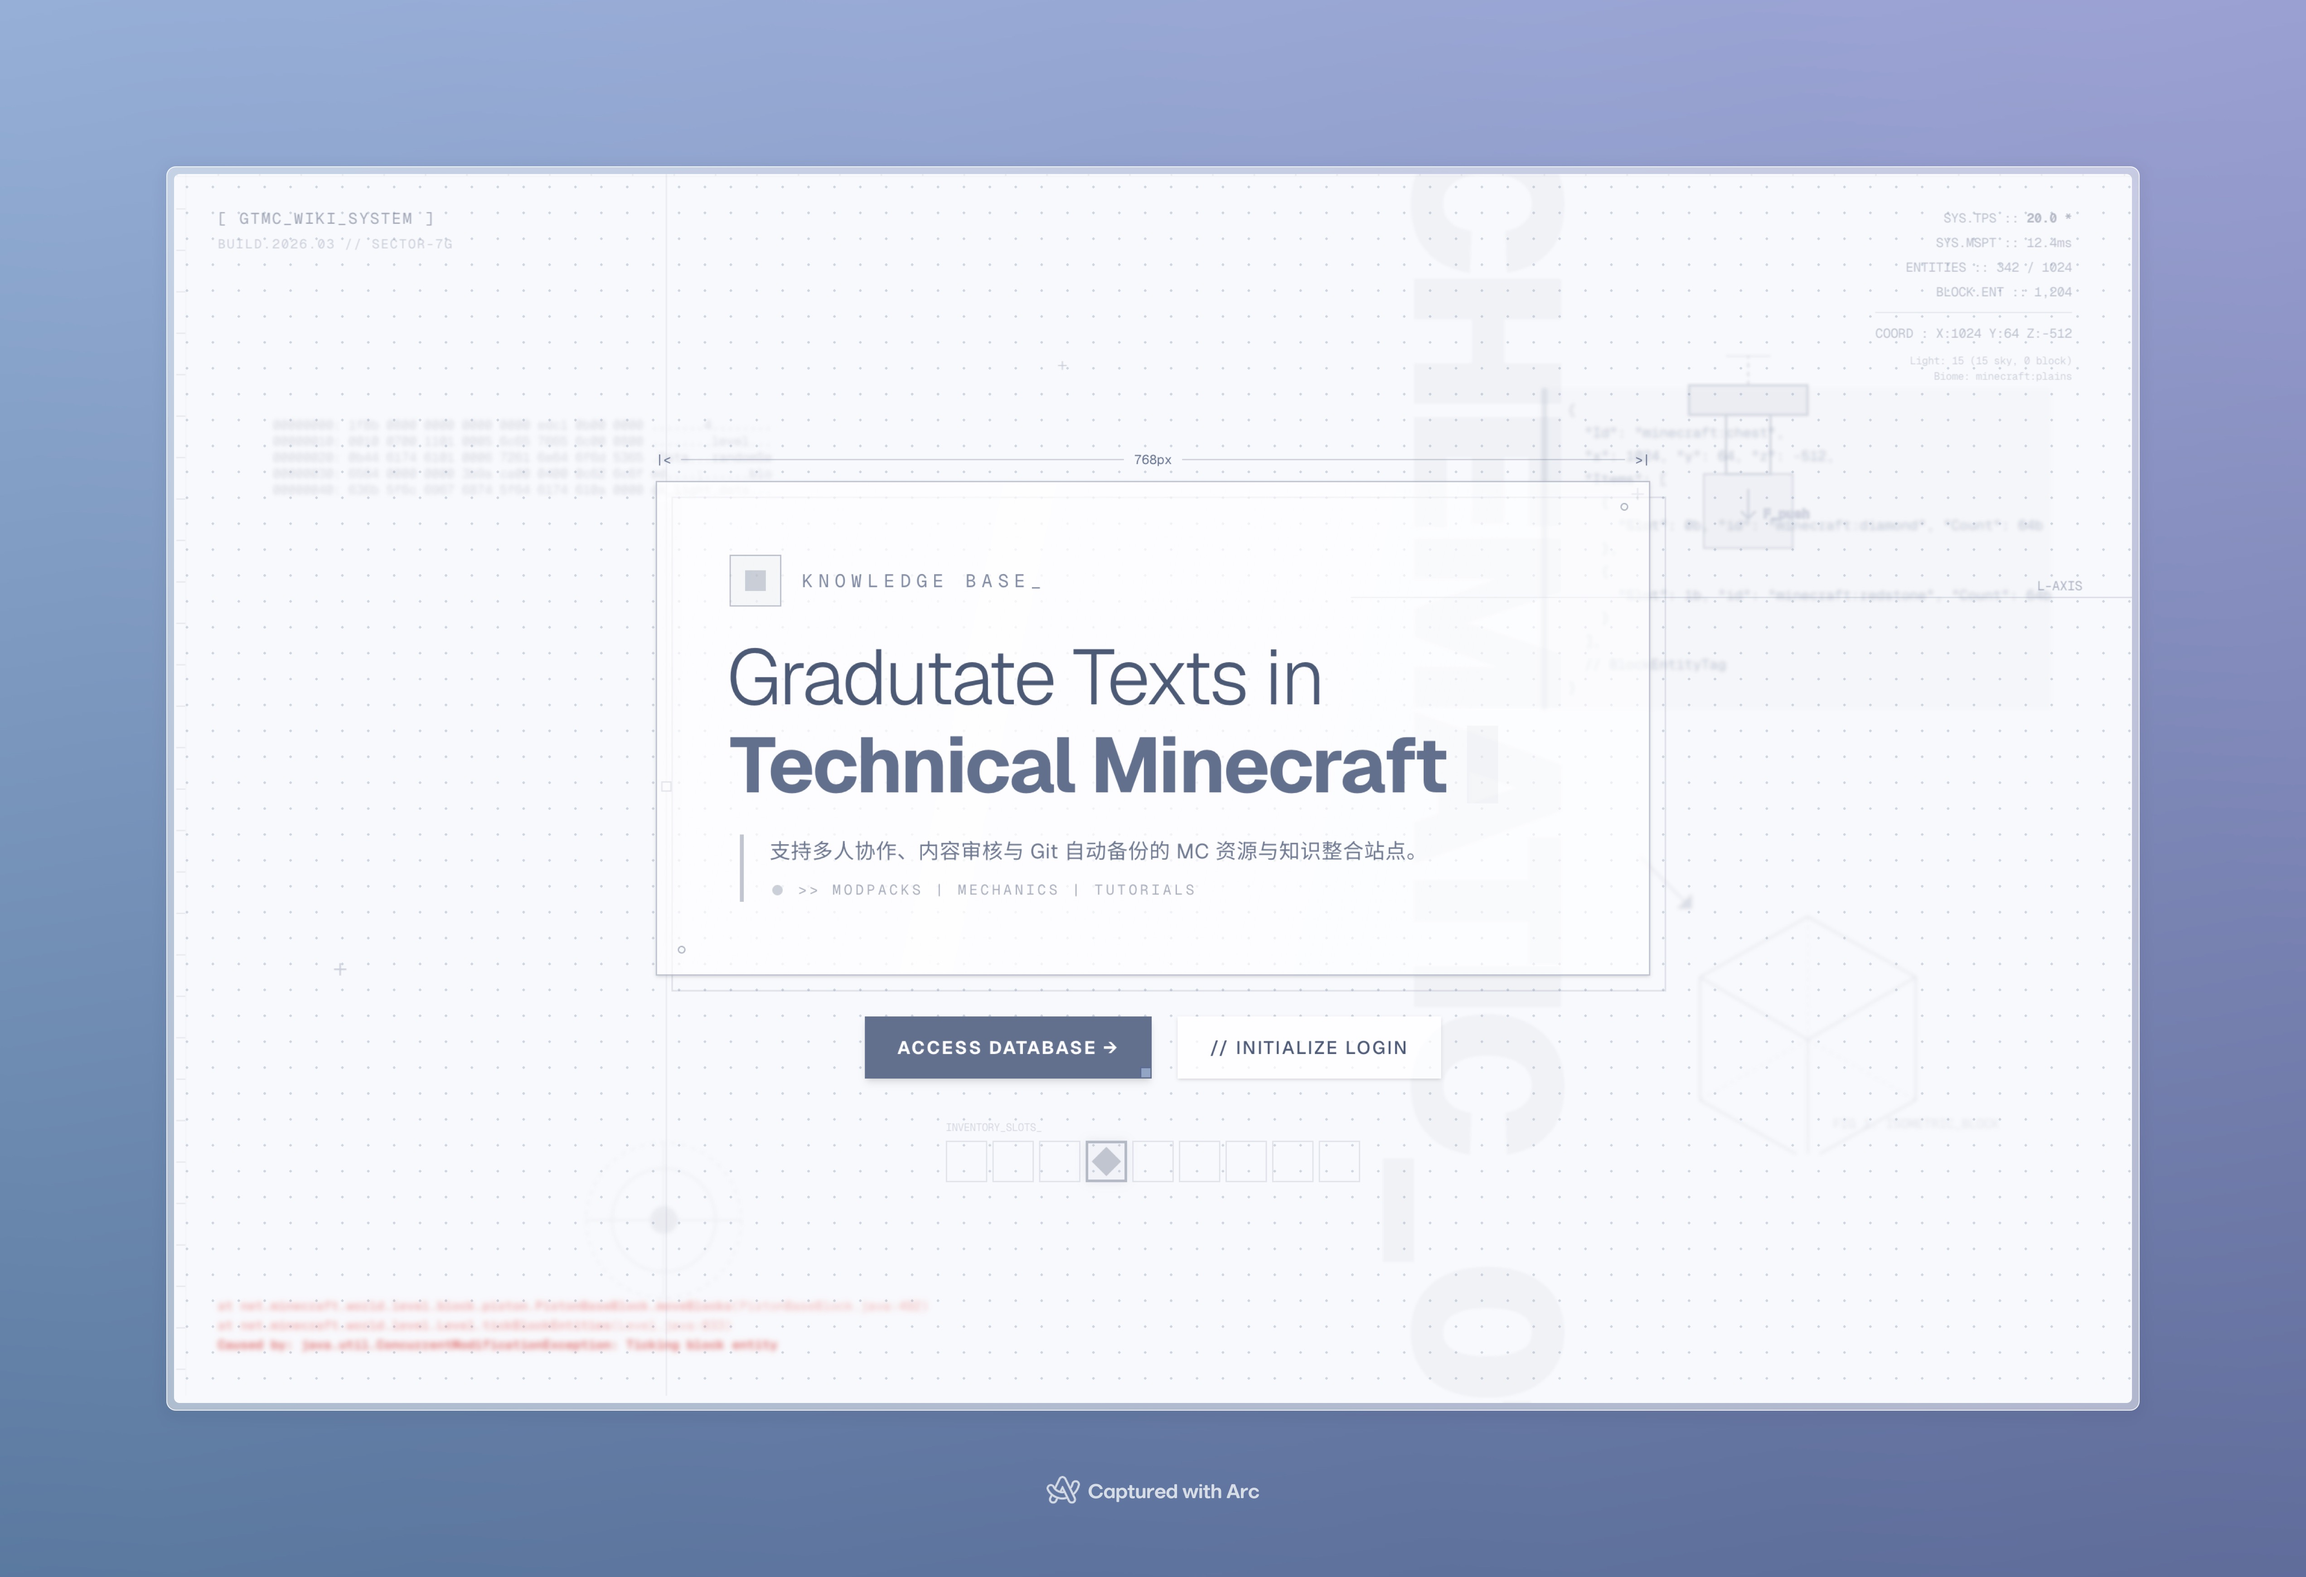
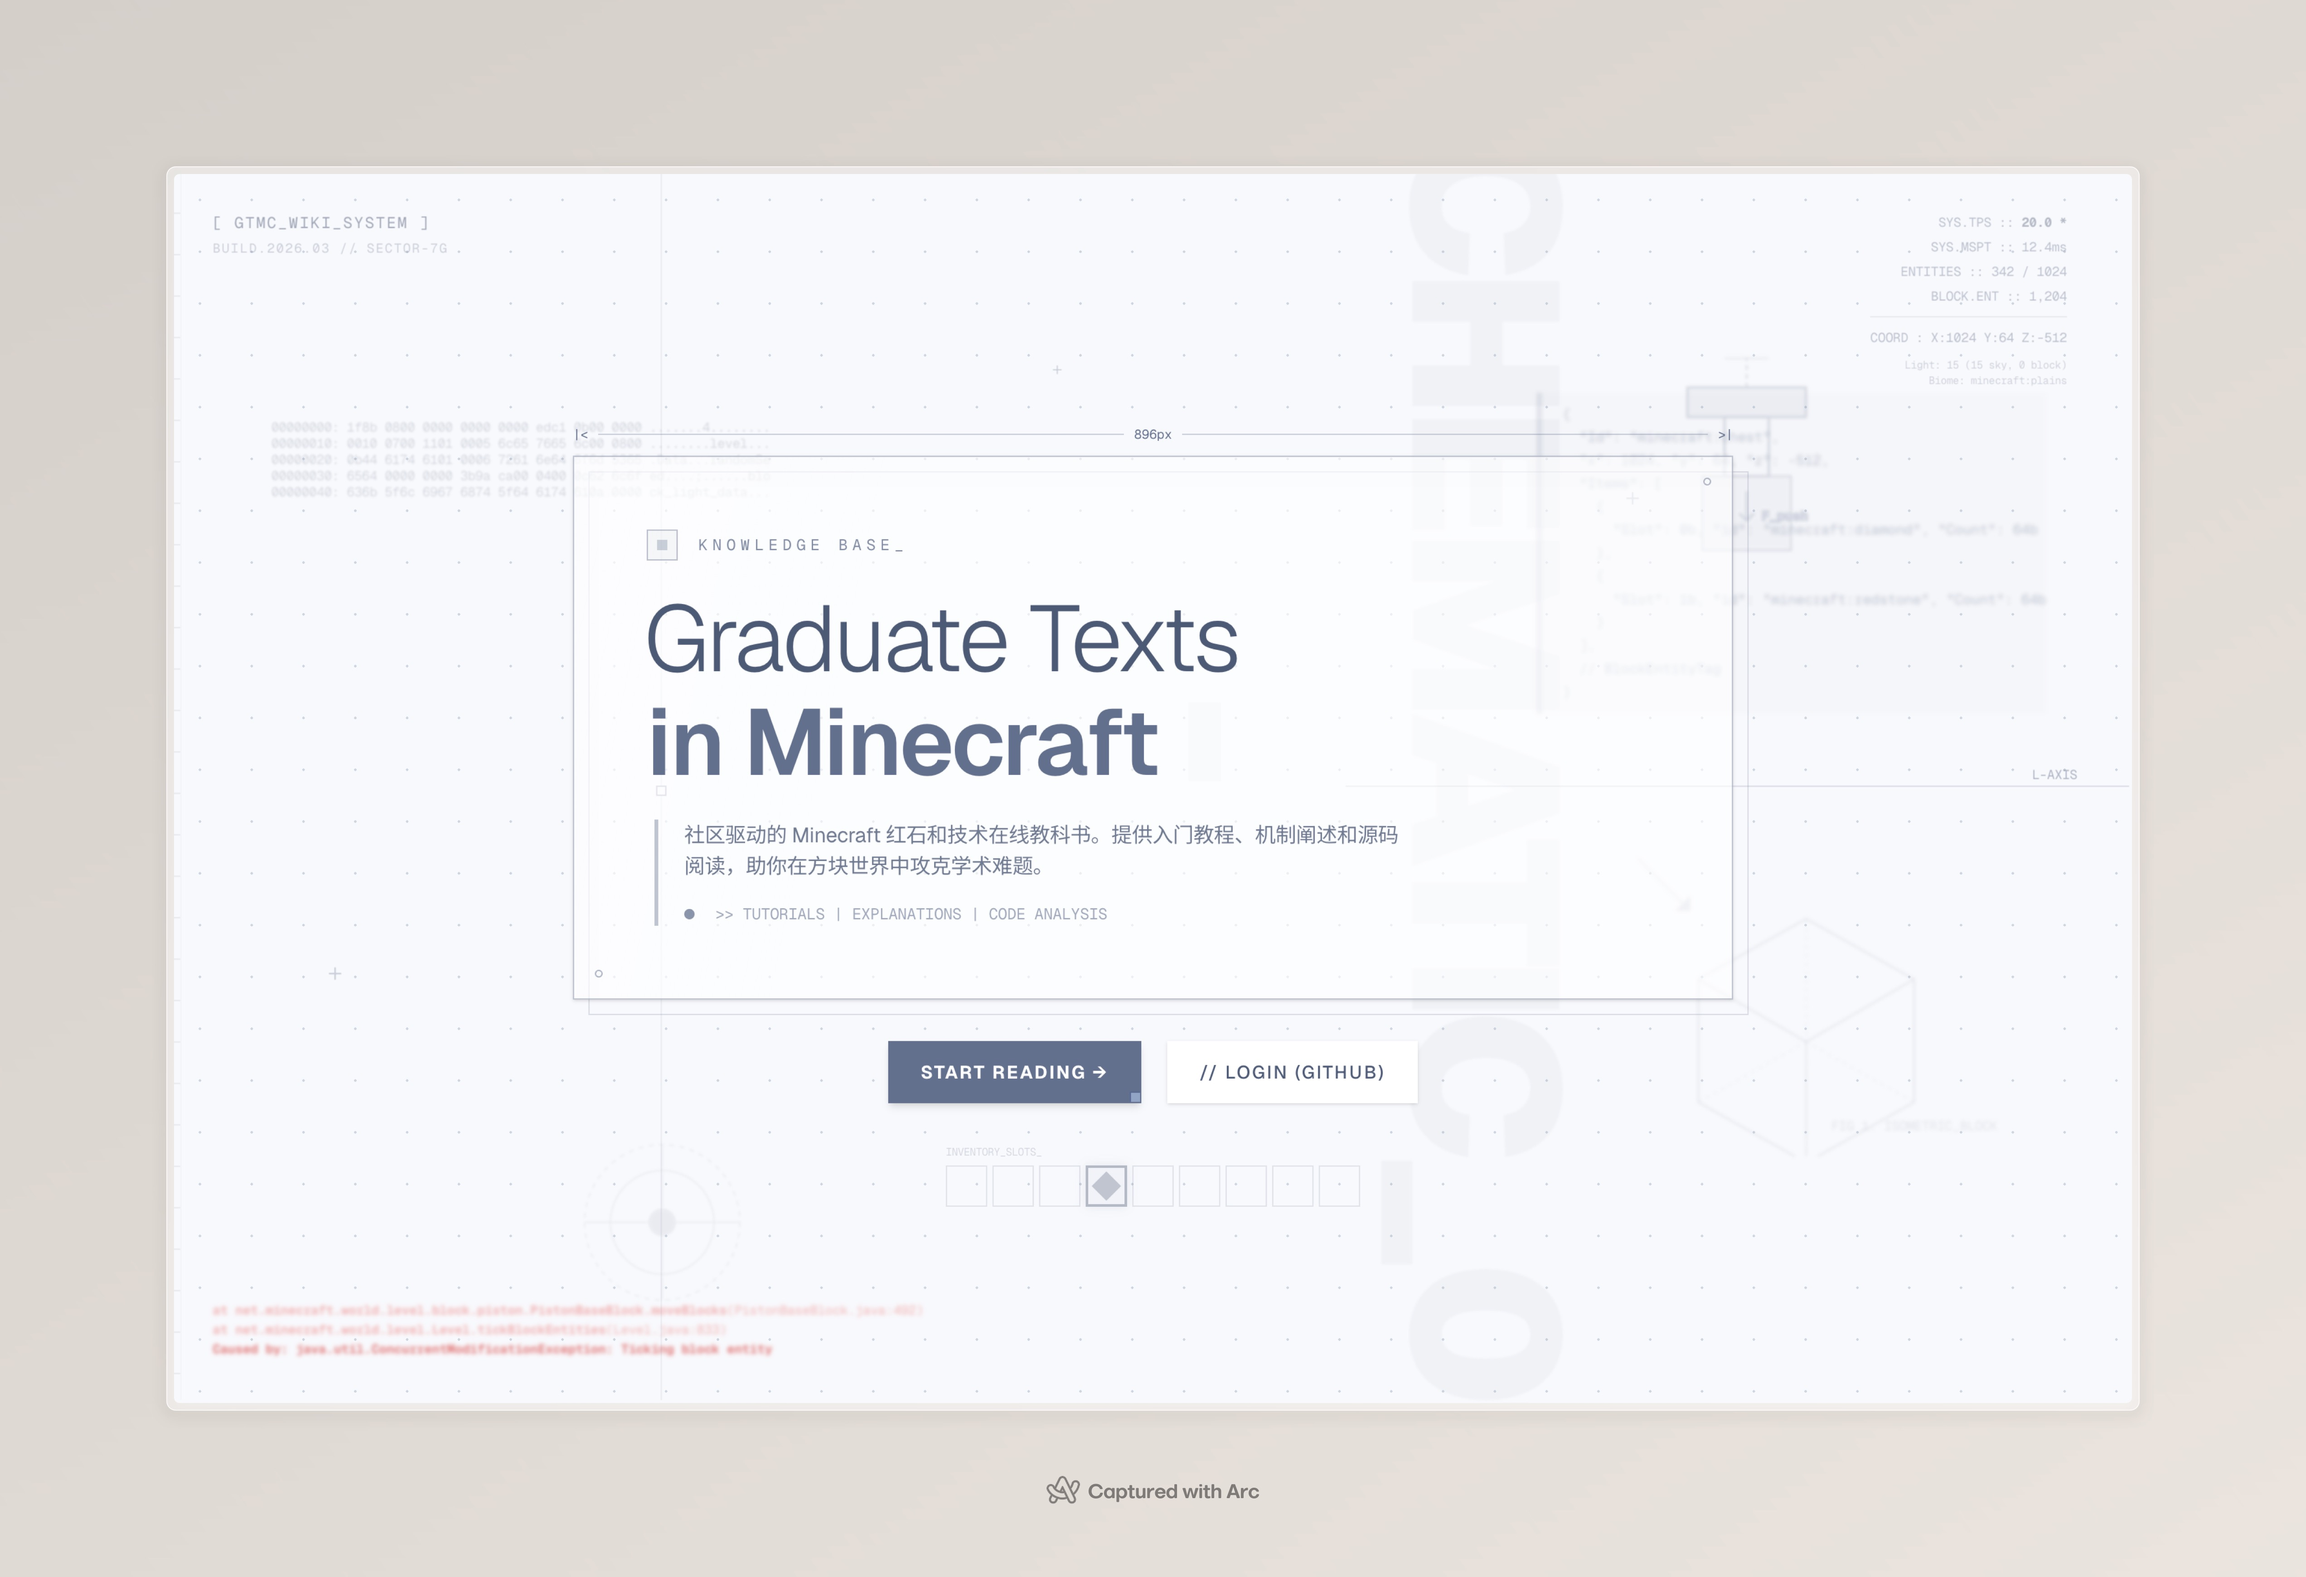
chore: update docs, homepage screenshot, and submodule

diff --git a/AGENTS.md b/AGENTS.md
@@ -8,6 +8,7 @@ If you are an Oh-my-Opencode agent (Sisyphus, Prometheus, Atlas, Hephaestus):
 
 1. Do not commit anything inside `.sisyphus/`.
 2. `.sisyphus/` is already in `.gitignore`.
+3. Simplify the QA stage if the task is not complex or critical
 
 ## Aesthetic Style
 
@@ -21,19 +22,6 @@ The frontend follows a **technical blueprint / scientific drafting** aesthetic. 
    - References: `components/ui/corner-brackets.tsx`, `components/ui/status-badge.tsx`
 4. **Responsive and touch-first**: mobile-first layouts with sufficient touch targets (e.g., 44px).
    - References: `touch-target` in `app/globals.css`, `components/ui/brutal-button.tsx`
-
-## Code Standards
-
-1. **TypeScript strict mode**: follow `"strict": true` in `tsconfig.json`.
-2. **Formatting and static checks**: follow Prettier + ESLint (Next.js + TS + better-tailwindcss).
-   - `pnpm lint` runs `prettier --write .` and `eslint --fix` (it will rewrite files).
-3. **Naming conventions**:
-   - File names use kebab-case (e.g., `brutal-button.tsx`, `api-client.ts`)
-   - Types/interfaces/components use PascalCase (e.g., `BrutalButtonProps`)
-4. **Import conventions**: prefer the `@/*` path alias; use `import type` for type-only imports.
-5. **Error handling and type narrowing**: prefer explicit error types, type guards, and defensive checks.
-   - References: `lib/github/api-client.ts`, `app/api/articles/search/route.ts`
-6. **Frontend component conventions**: reusable UI components should prefer the `forwardRef` + `displayName` pattern.
 
 ## Commit Labeling
 
@@ -68,22 +56,6 @@ Prefer including a scope (e.g., `sidebar`, `build`, `deps`, `api/*`) for traceab
 1. Split large changes into multiple medium-sized commits.
 2. Each commit should be single-purpose and easily reversible.
 3. **Do not** mix articles submodule updates into feature/fix commits (see `CONTRIBUTING.md`).
-
-## Workflow
-
-1. **Initialization**
-   - `pnpm install`
-   - Triggers `postinstall`: `prisma generate`, articles submodule init/update, and slug-map generation.
-2. **Daily development**
-   - `pnpm dev` for local development
-   - `pnpm lint` for formatting/rules
-   - `pnpm build` for build validation
-3. **Articles submodule collaboration**
-   - Manage with `pnpm articles:init|update|status`
-   - Avoid updates unless needed; if updated, commit submodule changes separately
-4. **CI baseline (PR/Push)**
-   - Workflow runs install + lint + build
-   - Target branches: `main/master/develop`
 
 ## Git Rules
 
